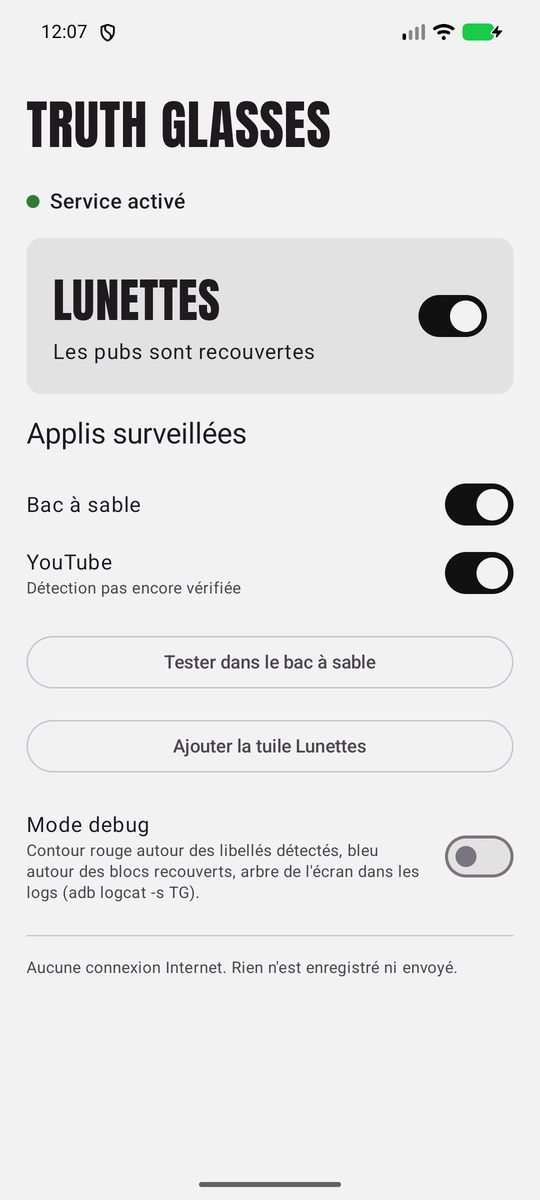
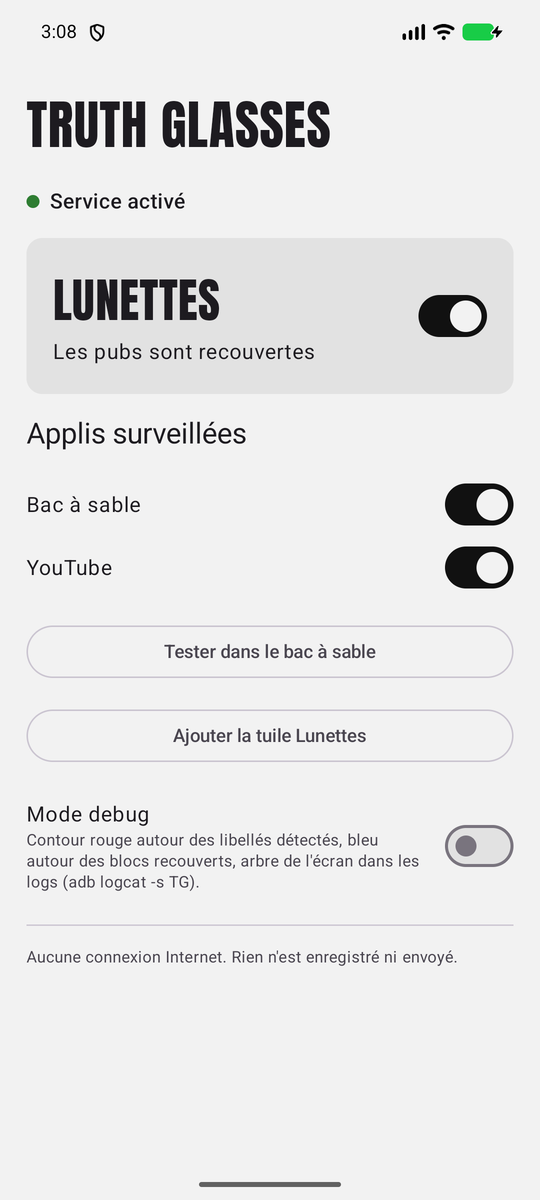
feat(m5): add the labels read on real apps
Instagram and YouTube show "Sponsorisée", Reddit shows "Publicité", read
on a phone set to French on 2026-10-31. English labels stay unverified.
The mockups show the same labels and the screenshots are redone.

diff --git a/app/src/main/java/io/github/mzacode/truthglasses/detect/AppProfiles.kt b/app/src/main/java/io/github/mzacode/truthglasses/detect/AppProfiles.kt
@@ -5,7 +5,7 @@ data class AppProfile(
     val displayName: String,
     // Libellé EXACT d'un nœud (texte ou contentDescription), après trim
     val sponsorLabels: List<Regex>,
-    // Date de vérification avec un dump, null = pas encore vérifié
+    // Date de vérification sur l'appareil, null = pas encore vérifié
     val verifiedOn: String?
 )
 
@@ -13,19 +13,30 @@ object AppProfiles {
     fun all(ownPackageName: String): List<AppProfile> =
         listOf(sandbox(ownPackageName), INSTAGRAM, REDDIT, YOUTUBE)
 
+    // Reprend les libellés des vraies applis, affichés par les maquettes (sandbox_label_*)
     private fun sandbox(ownPackageName: String) = AppProfile(
         packageName = ownPackageName,
         displayName = "Sandbox",
         sponsorLabels = listOf(
             Regex("^sponsoris[ée]e?$", RegexOption.IGNORE_CASE),
-            Regex("^sponsored$", RegexOption.IGNORE_CASE)
+            Regex("^sponsored$", RegexOption.IGNORE_CASE),
+            Regex("^publicité$", RegexOption.IGNORE_CASE)
         ),
         verifiedOn = "2026-10-30"
     )
 
-    // Libellés pas encore vérifiés : ils seront relevés avec un dump au jalon M5.
-    // D'ici là, ces profils ne détectent rien.
-    private val INSTAGRAM = AppProfile("com.instagram.android", "Instagram", emptyList(), null)
-    private val REDDIT = AppProfile("com.reddit.frontpage", "Reddit", emptyList(), null)
-    private val YOUTUBE = AppProfile("com.google.android.youtube", "YouTube", emptyList(), null)
+    // Libellés relevés à l'écran sur un téléphone en français, le 2026-10-31.
+    // Les libellés anglais ne sont pas encore vérifiés : un téléphone en anglais ne détecte rien.
+    private val INSTAGRAM = AppProfile(
+        "com.instagram.android", "Instagram",
+        listOf(Regex("^sponsorisée$", RegexOption.IGNORE_CASE)), "2026-10-31"
+    )
+    private val REDDIT = AppProfile(
+        "com.reddit.frontpage", "Reddit",
+        listOf(Regex("^publicité$", RegexOption.IGNORE_CASE)), "2026-10-31"
+    )
+    private val YOUTUBE = AppProfile(
+        "com.google.android.youtube", "YouTube",
+        listOf(Regex("^sponsorisée$", RegexOption.IGNORE_CASE)), "2026-10-31"
+    )
 }

diff --git a/app/src/test/java/io/github/mzacode/truthglasses/detect/AppProfilesTest.kt b/app/src/test/java/io/github/mzacode/truthglasses/detect/AppProfilesTest.kt
@@ -1,0 +1,39 @@
+package io.github.mzacode.truthglasses.detect
+
+import org.junit.Assert.assertFalse
+import org.junit.Assert.assertNotNull
+import org.junit.Assert.assertTrue
+import org.junit.Test
+
+class AppProfilesTest {
+    private val profiles = AppProfiles.all("io.github.mzacode.truthglasses").associateBy { it.packageName }
+
+    private fun matches(packageName: String, text: String) =
+        profiles.getValue(packageName).sponsorLabels.any { it.matches(text.trim()) }
+
+    @Test
+    fun `real apps match the labels seen on screen`() {
+        assertTrue(matches("com.instagram.android", "Sponsorisée"))
+        assertTrue(matches("com.google.android.youtube", "Sponsorisée"))
+        assertTrue(matches("com.reddit.frontpage", "Publicité"))
+    }
+
+    @Test
+    fun `labels only match a whole node`() {
+        assertFalse(matches("com.reddit.frontpage", "Voici une publicité pour un café"))
+        assertFalse(matches("com.instagram.android", "Publication sponsorisée par la marque"))
+        assertFalse(matches("com.google.android.youtube", "Publicité"))
+    }
+
+    @Test
+    fun `every real app profile is verified`() {
+        profiles.values.forEach { assertNotNull(it.displayName, it.verifiedOn) }
+    }
+
+    @Test
+    fun `sandbox matches every mockup label`() {
+        listOf("Sponsorisée", "Publicité", "Sponsored", "Sponsorisé").forEach {
+            assertTrue(it, matches("io.github.mzacode.truthglasses", it))
+        }
+    }
+}

diff --git a/README.fr.md b/README.fr.md
@@ -30,8 +30,8 @@ C'est une blague qui a un fond. L'appli ne bloque rien : la pub est toujours là
     <th>Avec les lunettes</th>
   </tr>
   <tr>
-    <td><img src="docs/images/before-fr.png" alt="Un post façon Instagram marqué Sponsorisé, avec son image et un bandeau En savoir plus" width="270"></td>
-    <td><img src="docs/images/after-fr.png" alt="Le même post recouvert par un bloc ACHÈTE" width="270"></td>
+    <td><img src="docs/images/before-fr.png" alt="Un post façon Instagram marqué Sponsorisée, avec son image et un bandeau En savoir plus" width="270"></td>
+    <td><img src="docs/images/after-fr.png" alt="Le même post recouvert par un bloc CONFORME-TOI" width="270"></td>
   </tr>
 </table>
 
@@ -39,7 +39,7 @@ Ces captures viennent du **bac à sable** intégré à l'appli : des maquettes s
 
 <table>
   <tr>
-    <td><img src="docs/images/youtube-fr.png" alt="Maquette façon YouTube : une vidéo sponsorisée recouverte par VIEILLIR EST INTERDIT" width="270"></td>
+    <td><img src="docs/images/youtube-fr.png" alt="Maquette façon YouTube : une vidéo sponsorisée recouverte par TU N'ES PAS ASSEZ BIEN" width="270"></td>
     <td><img src="docs/images/reddit-fr.png" alt="Maquette façon Reddit : un post sponsorisé recouvert par L'ANCIEN MARCHAIT TRÈS BIEN" width="270"></td>
     <td><img src="docs/images/home-fr.png" alt="Écran d'accueil : interrupteur des lunettes, applis surveillées, bac à sable, tuile des réglages rapides, mode debug" width="270"></td>
   </tr>
@@ -49,7 +49,7 @@ Ces captures viennent du **bac à sable** intégré à l'appli : des maquettes s
 
 **Version 0.1.0.** La détection, les messages, l'écran d'accueil, la tuile des réglages rapides et le bac à sable fonctionnent.
 
-Pour les vraies applis, le libellé « Sponsorisé » de chacune doit être vérifié à la main avant d'être ajouté : l'appli ne devine jamais. En attendant, Instagram, YouTube et Reddit affichent **« Détection pas encore vérifiée »** sur l'accueil, et rien n'y est recouvert.
+Pour les vraies applis, le libellé de chacune est vérifié à la main avant d'être ajouté : l'appli ne devine jamais. Ceux d'Instagram et de YouTube (« Sponsorisée ») et de Reddit (« Publicité ») ont été relevés le 31 octobre 2026 sur un téléphone en français.
 
 ## Installation
 
@@ -76,6 +76,7 @@ Un service d'accessibilité peut lire ce qui s'affiche à l'écran : la méfianc
 
 ## Limites
 
+- **Seulement en français pour l'instant.** Les libellés anglais des vraies applis ne sont pas encore vérifiés : sur un téléphone en anglais, leurs pubs ne sont pas recouvertes.
 - **Seulement les pubs du fil.** Les pubs vidéo en plein écran (pré-roll YouTube, pubs entre les stories Instagram) ne sont pas recouvertes.
 - **Les applis changent.** Quand une appli renomme son libellé « Sponsorisé » ou réorganise son affichage, la détection casse jusqu'à la mise à jour du profil. C'est normal.
 - **Un léger retard au scroll rapide.** Les blocs suivent le scroll tout de suite, puis sont corrigés au scan suivant de l'écran.

diff --git a/docs/SPEC.md b/docs/SPEC.md
@@ -111,20 +111,20 @@ data class AppProfile(
     val packageName: String,
     val displayName: String,
     val sponsorLabels: List<Regex>,   // libellé EXACT d'un nœud (texte ou contentDescription), trim
-    val verifiedOn: String?           // date de vérification avec un dump, null = pas encore vérifié
+    val verifiedOn: String?           // date de vérification sur l'appareil, null = pas encore vérifié
 )
 ```
 
-Packages de départ (à confirmer sur l'appareil) :
+Libellés relevés à l'écran le 2026-10-31, sur un téléphone en français :
 
-| Appli | Package | Libellés probables (à vérifier) |
+| Appli | Package | Libellés vérifiés |
 |---|---|---|
-| Instagram | `com.instagram.android` | `Sponsorisé`, `Sponsored` |
-| Reddit | `com.reddit.frontpage` | `Promoted`, `Sponsorisé` |
-| YouTube | `com.google.android.youtube` | `Sponsorisé`, `Sponsored`, `Annonce`, `Ad` |
-| Bac à sable | le package de l'appli elle-même | `Sponsorisé`, `Sponsored` |
+| Instagram | `com.instagram.android` | `Sponsorisée` |
+| Reddit | `com.reddit.frontpage` | `Publicité` |
+| YouTube | `com.google.android.youtube` | `Sponsorisée` |
+| Bac à sable | le package de l'appli elle-même | `Sponsorisé(e)`, `Sponsored`, `Publicité` |
 
-**Ces libellés sont des hypothèses.** Pour chaque appli, il faut faire un dump de l'écran sur un post sponsorisé (`adb shell uiautomator dump` ou le mode debug, voir 4.6), relever le texte exact et la `contentDescription`, puis remplir `verifiedOn`. Les applis changent leur interface régulièrement : on garde des regex simples et une correspondance exacte sur le nœud entier (`^sponsoris[ée]e?$`, insensible à la casse). Les libellés courts et ambigus (`Ad`, `Pub`) ne sont utilisés que dans le profil des applis où leur présence a été vérifiée.
+**On ne devine pas les libellés.** Pour chaque appli et chaque langue, l'utilisateur regarde une vraie pub et donne le mot exact, puis on remplit `verifiedOn` (pas de dump des vraies applis, voir 4.7). Les libellés anglais ne sont pas encore vérifiés : un téléphone en anglais ne détecte rien dans ces applis. Le mode debug (4.6) permet de confirmer que le nœud du libellé est bien reconnu. Les applis changent leur interface régulièrement : on garde des regex simples et une correspondance exacte sur le nœud entier (`^sponsoris[ée]e?$`, insensible à la casse). Les libellés courts et ambigus (`Ad`, `Pub`) ne sont utilisés que dans le profil des applis où leur présence a été vérifiée.
 
 Tant qu'un profil n'est pas vérifié, sa liste de libellés reste vide : l'appli apparaît dans l'accueil avec la mention « Détection pas encore vérifiée » et rien n'y est recouvert. L'écran d'accueil n'affiche que les applis installées. Utilise `packageManager.getPackageInfo` avec un bloc `<queries>` listant ces packages dans le manifeste (pas `QUERY_ALL_PACKAGES`).
 

diff --git a/README.md b/README.md
@@ -49,7 +49,7 @@ These screenshots come from the **sandbox** built into the app: skeleton mockups
 
 **Version 0.1.0.** Detection, messages, the home screen, the quick settings tile and the sandbox work.
 
-For the real apps, the "Sponsored" label each one shows must be checked by hand before it's added: the app never guesses. Until that's done, Instagram, YouTube and Reddit show **"Detection not verified yet"** on the home screen and nothing is covered in them.
+For the real apps, each label is checked by hand before it's added: the app never guesses. The labels of Instagram and YouTube ("Sponsorisée") and Reddit ("Publicité") were read on October 31, 2026 on a phone set to French.
 
 ## Install
 
@@ -76,6 +76,7 @@ An accessibility service can read what's on your screen, so it deserves suspicio
 
 ## Limits
 
+- **French only for now.** The English labels of the real apps aren't verified yet: on a phone set to English, their ads aren't covered.
 - **Feed ads only.** Full-screen video ads (YouTube pre-rolls, ads between Instagram stories) aren't covered.
 - **Apps change.** When an app renames its "Sponsored" label or reshuffles its layout, detection breaks until the profile is updated. That's expected.
 - **A small delay on fast scrolls.** The covers follow the scroll right away, then get corrected by the next screen scan.
